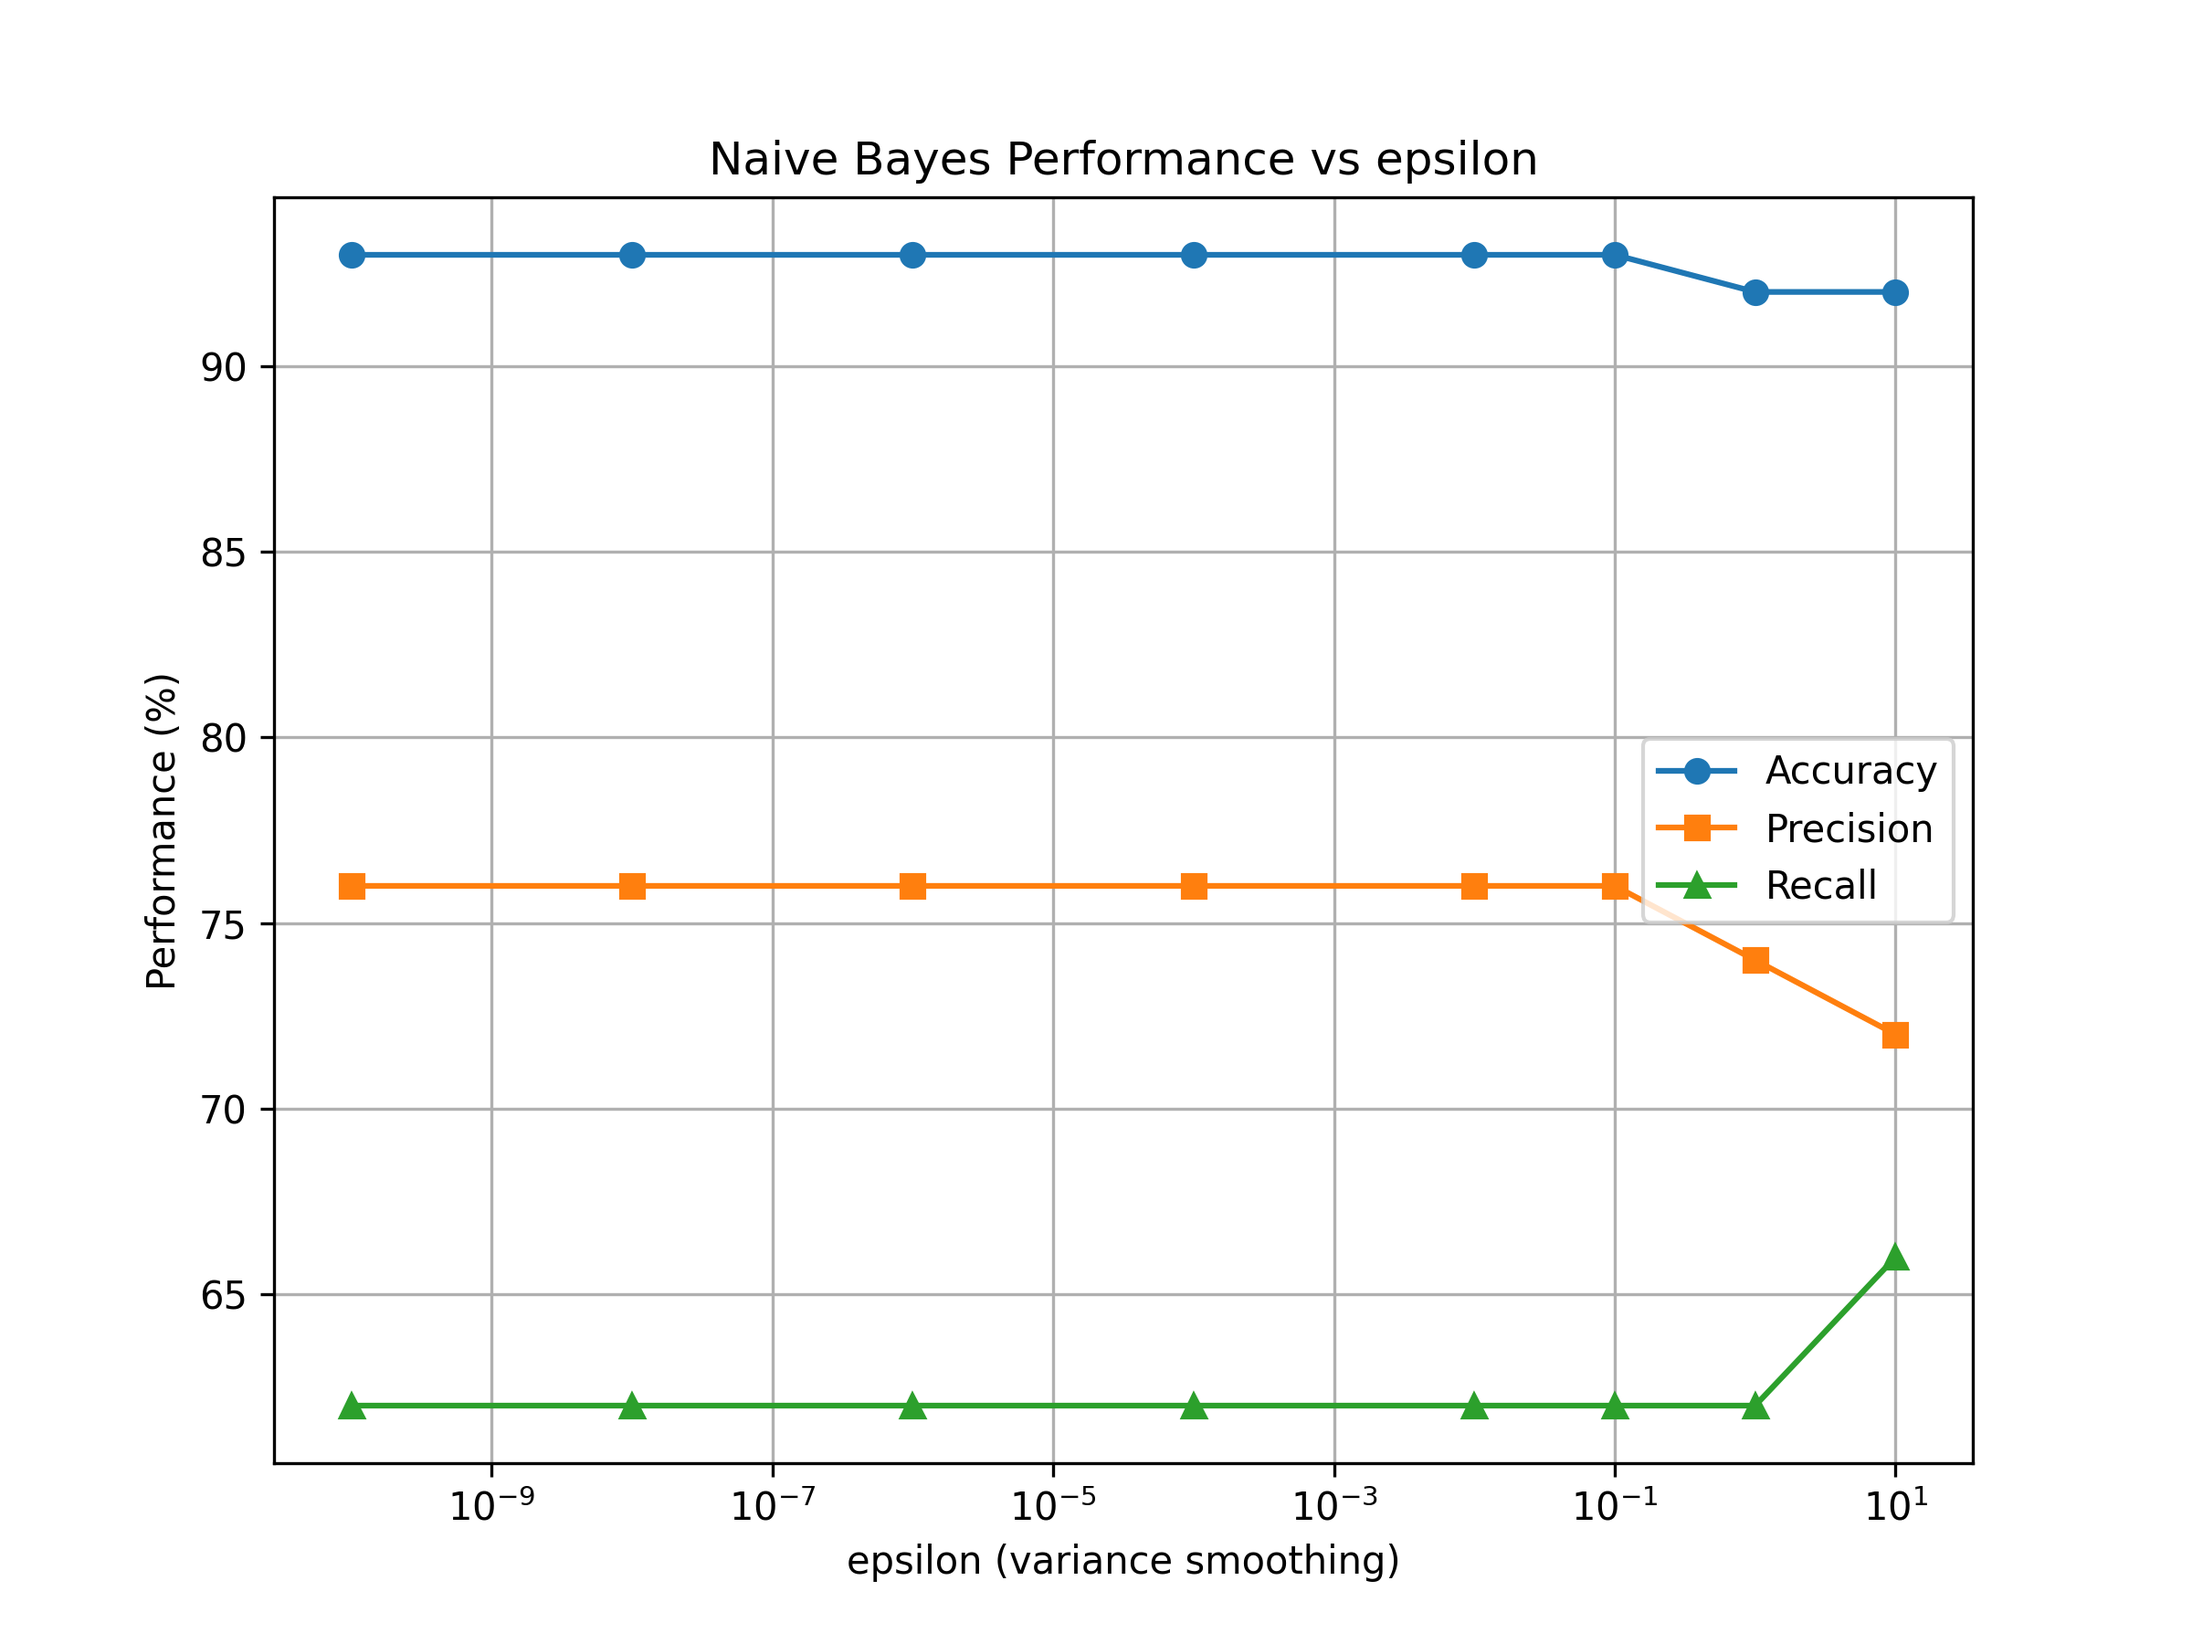
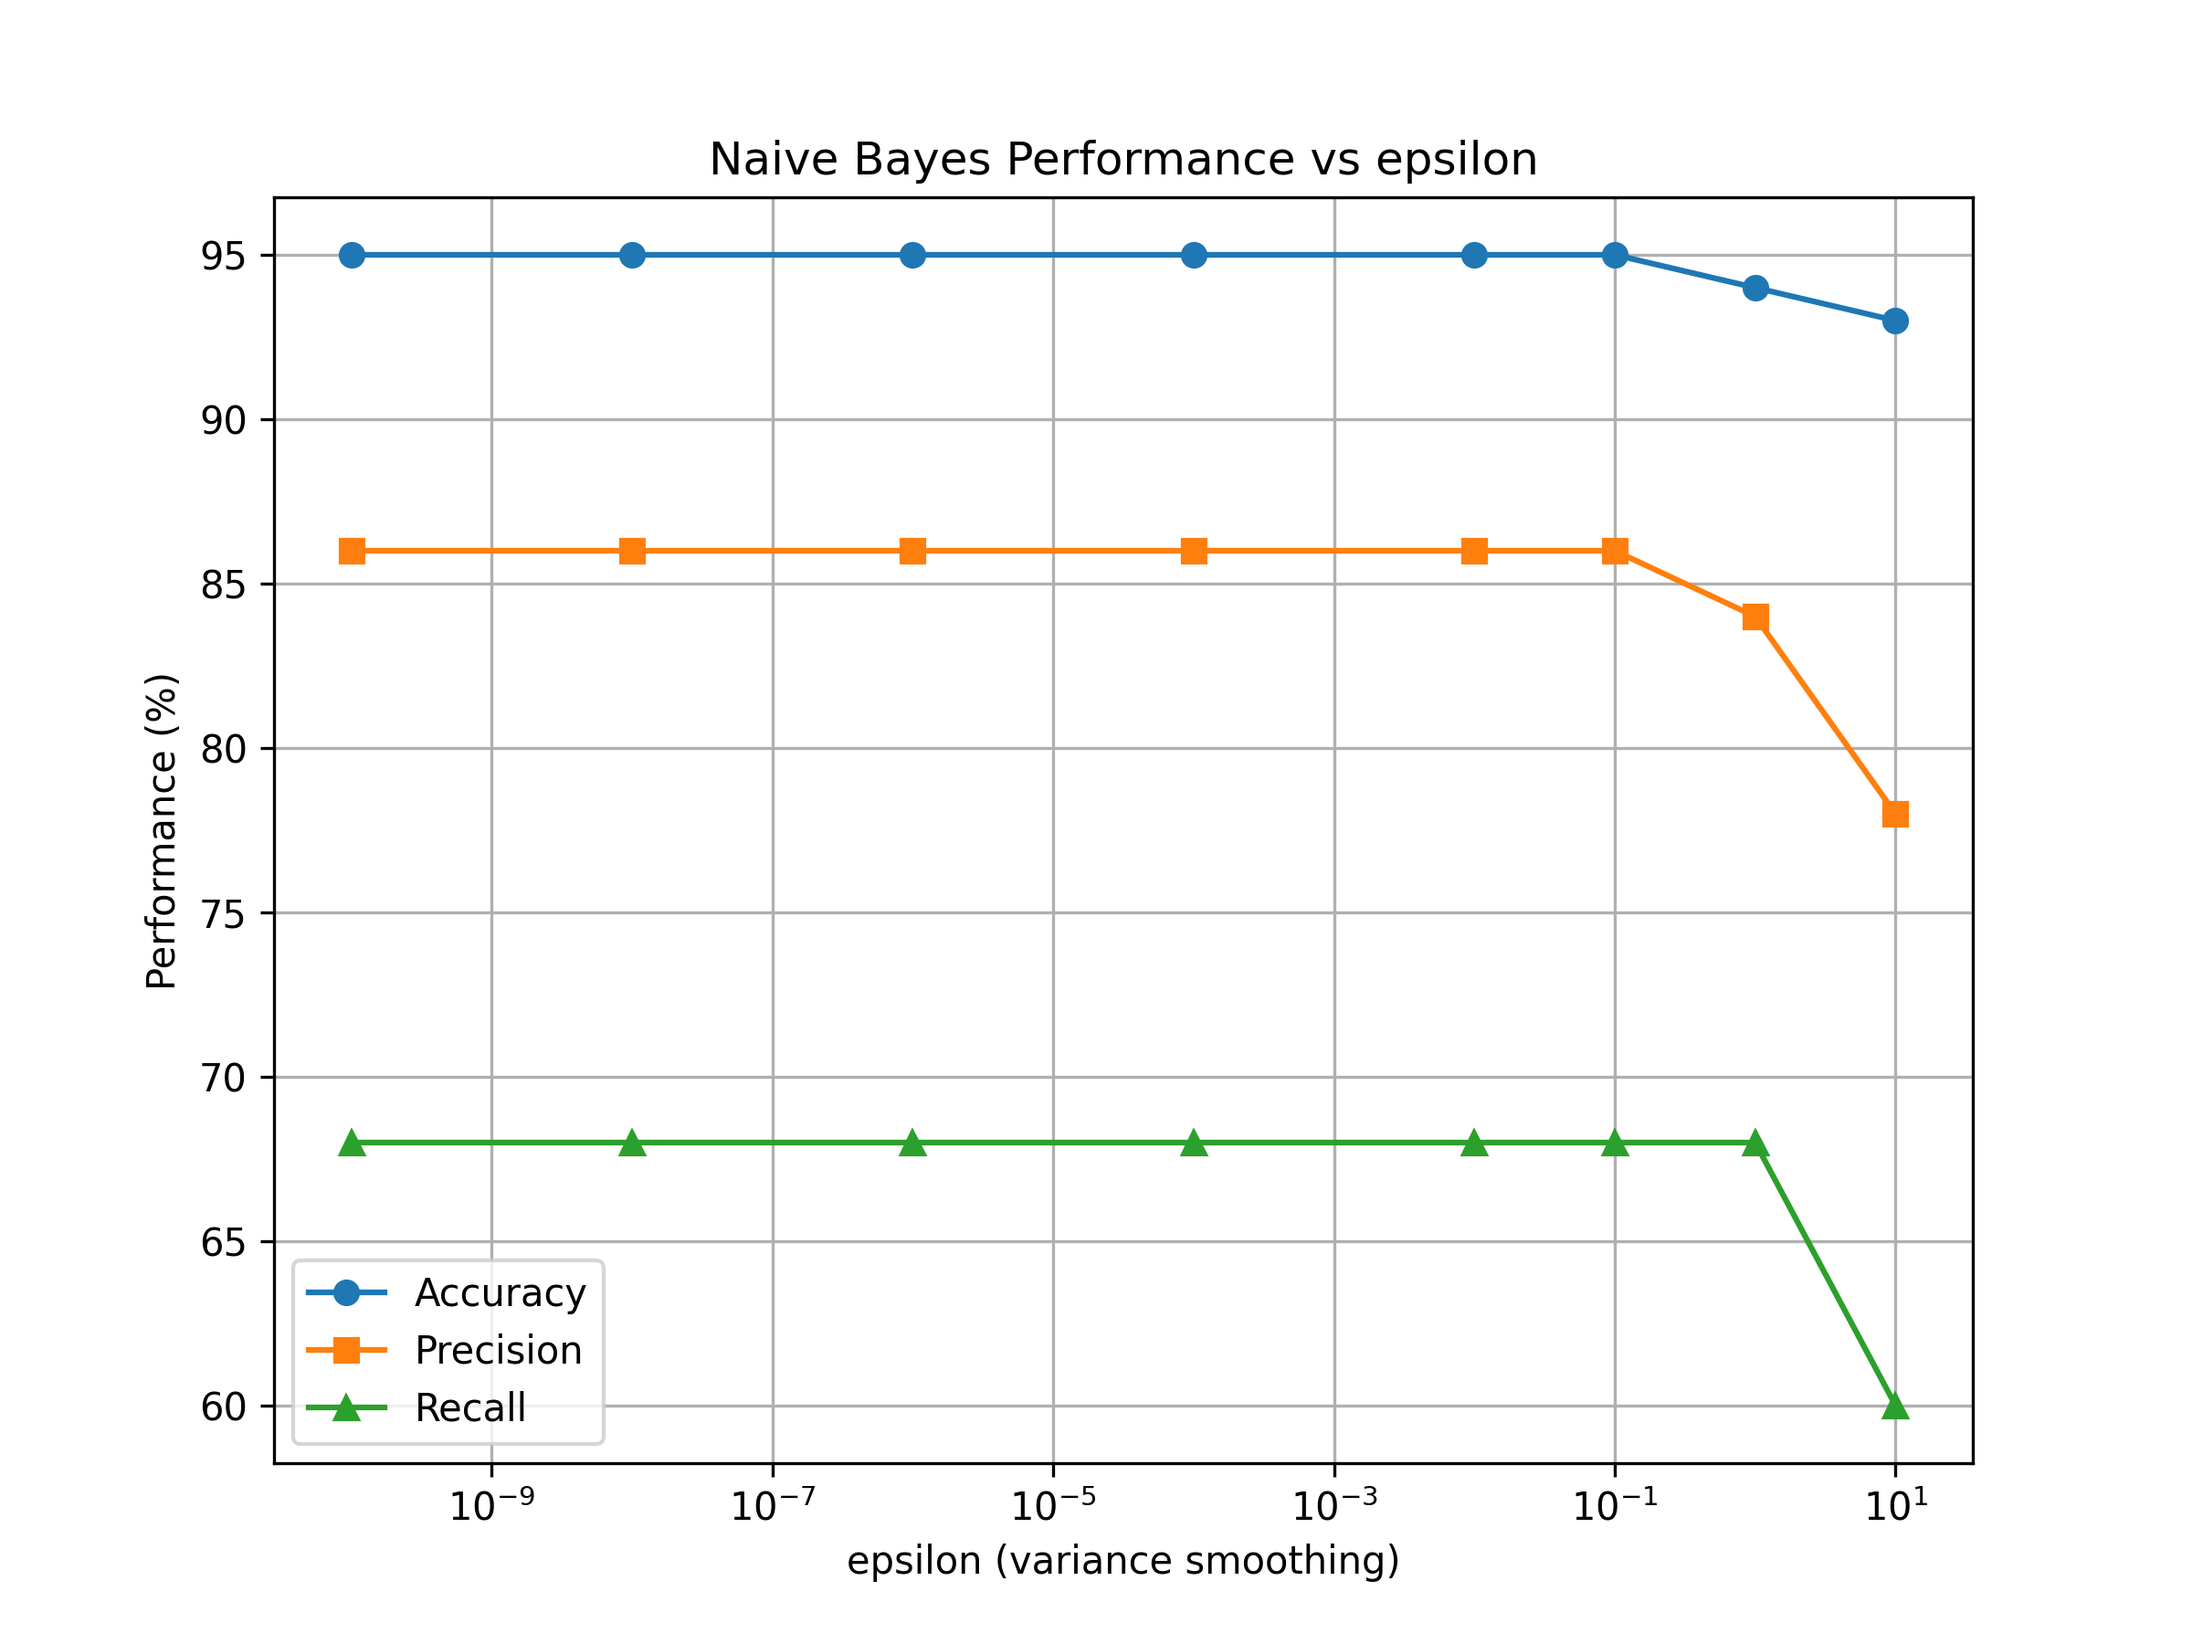
comment & result changed

diff --git a/2/tuning_epsilon.py b/2/tuning_epsilon.py
@@ -5,19 +5,17 @@ from bayes import load_raw_data, predict, select_features, data_filtering, train
 
 
 def evaluate(predictions, answers):
+    # predictions과 answer을 비교해서 성능 평가
+    # 정확도: 전체 중 맞춘 비율
     correct = sum([predictions[i] == answers[i] for i in range(len(predictions))])
     accuracy = round(correct / len(answers), 2) * 100
 
-    # predictions과 answer을 비교해서 성능 평가
-
-    # 정확도: 전체 중 맞춘 비율
     tp = sum([(predictions[i] == 1 and answers[i] == 1) for i in range(len(answers))])
-    # 정밀도: 1이라고 예측한 것 중 실제로 1인 비율
     fp = sum([(predictions[i] == 1 and answers[i] == 0) for i in range(len(answers))])
-    # 재현율: 실제로 1인 것 중에 올바르게 예측한 비율
     fn = sum([(predictions[i] == 0 and answers[i] == 1) for i in range(len(answers))])
-
+    # 정밀도: 1이라고 예측한 것 중 실제로 1인 비율
     precision = round(tp / (tp + fp), 2) * 100 if (tp + fp) > 0 else 0
+    # 재현율: 실제로 1인 것 중에 올바르게 예측한 비율
     recall = round(tp / (tp + fn), 2) * 100 if (tp + fn) > 0 else 0
 
     return accuracy, precision, recall
@@ -30,7 +28,7 @@ def epsilon_tuning(train_file, test_file):
     epsilon_vals = [1e-10, 1e-8, 1e-6, 1e-4, 1e-2, 1e-1, 1, 10]
     accuracy_list, precision_list, recall_list = [], [], []
 
-    selected_idx = select_features(train_instances, threshold=0.9)
+    selected_idx = select_features(train_instances, threshold=0.8)
     train_filtered = data_filtering(train_instances, selected_idx)
     test_filtered = data_filtering(test_instances, selected_idx)
 

diff --git a/2/tuning_threshold.py b/2/tuning_threshold.py
@@ -9,19 +9,16 @@ from bayes import load_raw_data, training, predict, select_features, data_filter
 
 
 def evaluate(predictions, answers):
+    # predictions과 answer을 비교해서 성능 평가
+    # 정확도: 전체 중 맞춘 비율
     correct = sum([predictions[i] == answers[i] for i in range(len(predictions))])
     accuracy = round(correct / len(answers), 2) * 100
-
-    # predictions과 answer을 비교해서 성능 평가
-
-    # 정확도: 전체 중 맞춘 비율
     tp = sum([(predictions[i] == 1 and answers[i] == 1) for i in range(len(answers))])
-    # 정밀도: 1이라고 예측한 것 중 실제로 1인 비율
     fp = sum([(predictions[i] == 1 and answers[i] == 0) for i in range(len(answers))])
-    # 재현율: 실제로 1인 것 중에 올바르게 예측한 비율
     fn = sum([(predictions[i] == 0 and answers[i] == 1) for i in range(len(answers))])
-
+    # 정밀도: 1이라고 예측한 것 중 실제로 1인 비율
     precision = round(tp / (tp + fp), 2) * 100 if (tp + fp) > 0 else 0
+    # 재현율: 실제로 1인 것 중에 올바르게 예측한 비율
     recall = round(tp / (tp + fn), 2) * 100 if (tp + fn) > 0 else 0
 
     return accuracy, precision, recall

diff --git a/1/functions.py b/1/functions.py
@@ -58,8 +58,6 @@ def find_generator(p: int) -> int:
         if is_generator(g, p):
             return g
 
-import random
-
 def make_private_key(p: int) -> int:
     """Generate a random private key for DH (2 <= a <= p-2)."""
     return random.randint(2, p - 2)
